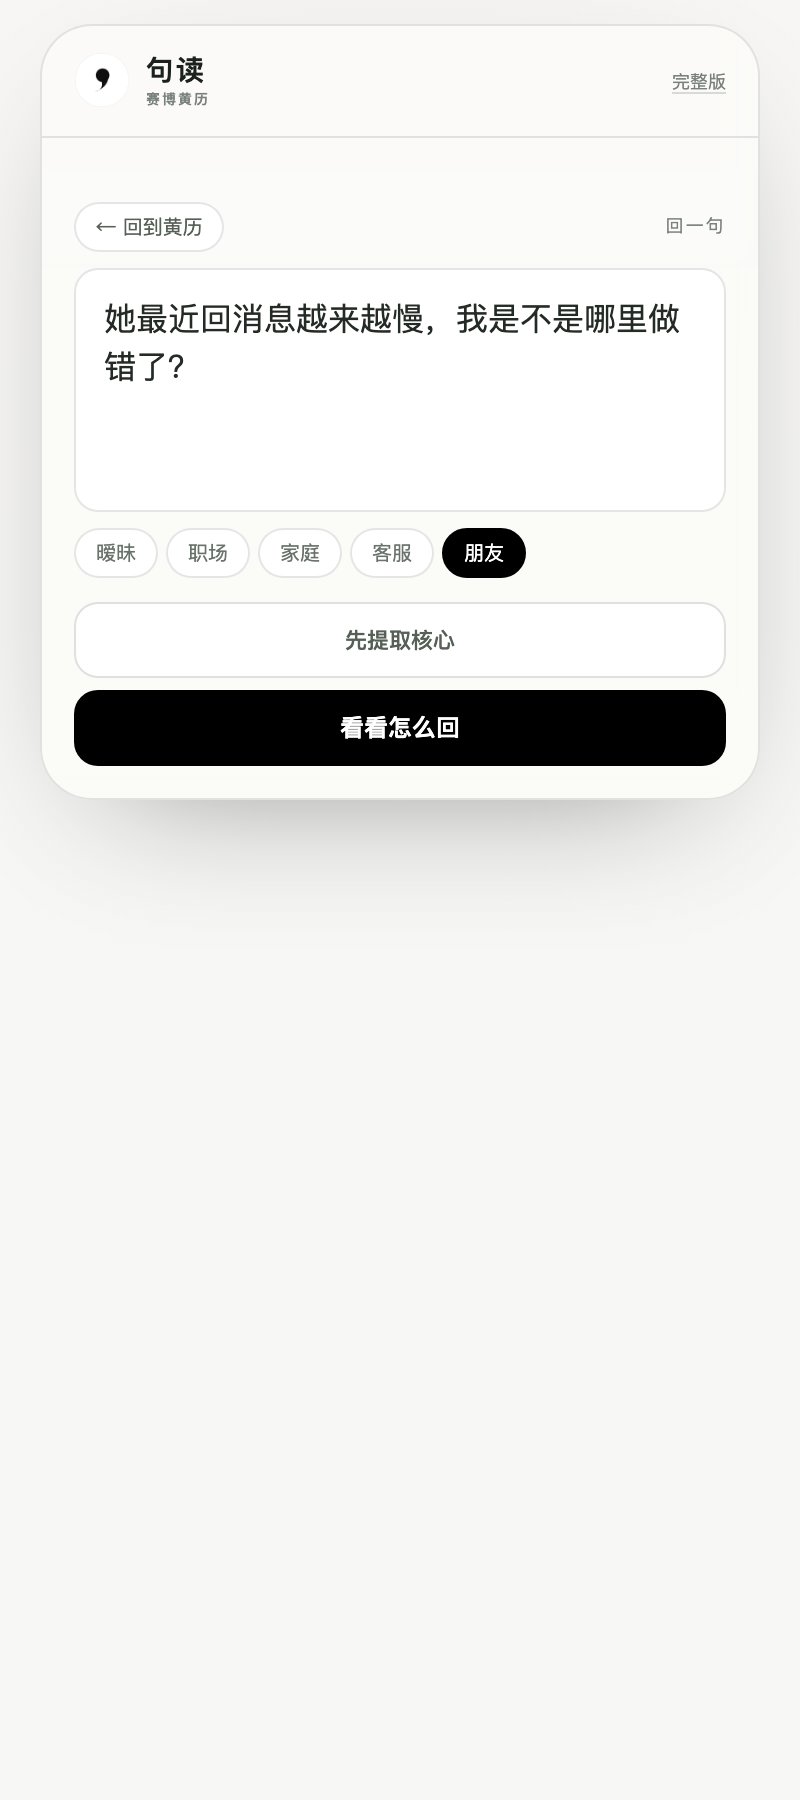
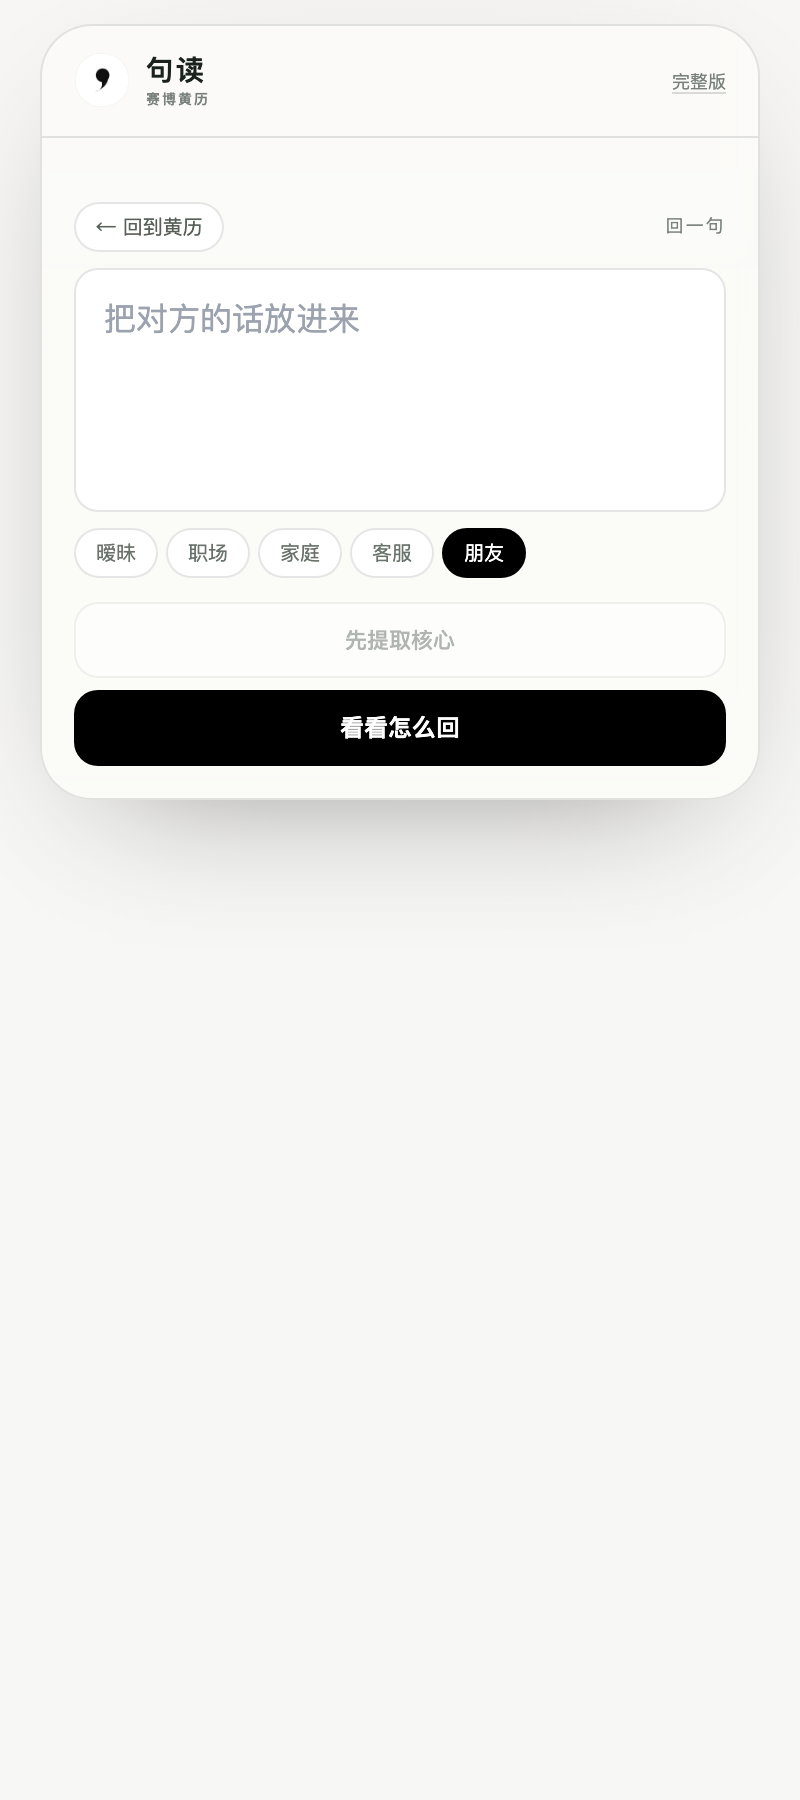
提取核心常驻；先知加只看自己/看看 TA
- 回一句：先提取核心按钮常驻在看看怎么回上方（内容不足时置灰）
- 先知新增视角切换：只看自己 / 看看 TA；看 TA 时自动展开 TA 生辰
- focus=partner 且没填 TA 生辰时返回明确提示
- 提问口径：读 TA 的盘只说 TA 的性格节奏，不替 TA 说心里话
- 禁止在回答里罗列宜忌原文

Changed region(s): [[0.125, 0.1556, 0.5312, 0.2178], [0.5625, 0.1556, 0.8438, 0.1867], [0.4375, 0.3422, 0.5625, 0.3733]]

diff --git a/app/widget/page.tsx b/app/widget/page.tsx
@@ -65,6 +65,7 @@ export default function WidgetPage() {
   const [partnerPlace, setPartnerPlace] = useState("");
   const [partnerGender, setPartnerGender] = useState("");
   const [showPartner, setShowPartner] = useState(false);
+  const [focus, setFocus] = useState<"self" | "partner">("self");
   const [registerOpen, setRegisterOpen] = useState(false);
   const [copied, setCopied] = useState<string | null>(null);
   const { account, register } = useAccount();
@@ -241,6 +242,7 @@ export default function WidgetPage() {
         body: JSON.stringify({
           question,
           scene,
+          focus,
           ...(birthDate
             ? {
                 birth: {
@@ -434,20 +436,18 @@ export default function WidgetPage() {
               ))}
             </div>
 
-            {message.trim().length >= 20 ? (
-              <button
-                type="button"
-                onClick={summarize}
-                disabled={summarizing}
-                className="mt-3 w-full rounded-xl border border-black/12 bg-white px-4 py-2.5 text-[11px] font-medium text-ink-600 disabled:opacity-60"
-              >
-                {summarizing
-                  ? "正在拆这段…"
-                  : summary
-                    ? "重新提取核心"
-                    : "先提取核心"}
-              </button>
-            ) : null}
+            <button
+              type="button"
+              onClick={summarize}
+              disabled={summarizing || message.trim().length < 20}
+              className="mt-3 w-full rounded-xl border border-black/12 bg-white px-4 py-2.5 text-[11px] font-medium text-ink-600 disabled:opacity-45"
+            >
+              {summarizing
+                ? "正在拆这段…"
+                : summary
+                  ? "重新提取核心"
+                  : "先提取核心"}
+            </button>
 
             <button
               type="button"
@@ -571,6 +571,29 @@ export default function WidgetPage() {
                 <p className="text-[9px] tracking-[0.12em] text-ink-400">
                   先知
                 </p>
+              </div>
+
+              <div className="mt-3 grid grid-cols-2 gap-1 rounded-xl bg-cream-100 p-1">
+                {[
+                  { value: "self" as const, label: "只看自己" },
+                  { value: "partner" as const, label: "看看 TA" },
+                ].map((item) => (
+                  <button
+                    key={item.value}
+                    type="button"
+                    onClick={() => {
+                      setFocus(item.value);
+                      if (item.value === "partner") setShowPartner(true);
+                    }}
+                    className={`rounded-lg px-2 py-1.5 text-[10px] font-medium transition-colors ${
+                      focus === item.value
+                        ? "bg-white text-ink-950 shadow-soft"
+                        : "text-ink-400"
+                    }`}
+                  >
+                    {item.label}
+                  </button>
+                ))}
               </div>
 
               <textarea
@@ -717,7 +740,11 @@ export default function WidgetPage() {
                 >
                   <span>
                     TA 的生辰（合盘）
-                    {partnerDate ? ` · ${partnerDate}` : ""}
+                    {partnerDate
+                      ? ` · ${partnerDate}`
+                      : focus === "partner"
+                        ? " · 必填"
+                        : ""}
                   </span>
                   <span>{showPartner ? "收起" : "填写"}</span>
                 </button>

diff --git a/lib/askPrompt.ts b/lib/askPrompt.ts
@@ -23,7 +23,8 @@ export const ASK_SYSTEM_PROMPT = `你是「句读」里的黄历顾问。
 2. 不做确定性预测（不要说「一定会」「必然」），用「更适合」「不太建议」这种分寸。
 3. 不给医疗、投资、法律结论；涉及这些只提醒找专业的人。
 4. 回答落在「今天怎么做」上：能做什么、避开什么、什么时候做。
-5. 宜忌要翻译成人话：不要直接说「今天宜结婚」或者「挑结婚这类事做」，也不要拿「破土/安葬」去吓人。把宜理解成「适合推进、适合沟通、适合出门」，把忌理解成「别急着定、别硬推」。
+5. 回答里不要罗列宜/忌原文（不要写「适合祭祀、解除、破屋、求医」这种），都翻成一句话：今天适合推进 / 今天别硬来 / 今天适合把话说开。原始宜忌只放在 basis 里。
+6. 宜忌要翻译成人话：不要直接说「今天宜结婚」或者「挑结婚这类事做」，也不要拿「破土/安葬」去吓人。把宜理解成「适合推进、适合沟通、适合出门」，把忌理解成「别急着定、别硬推」。
 5. 只输出 JSON：{"answer": "...", "basis": ["..."], "caution": "..."}。
    answer 两到三句，最多 90 个汉字；basis 是 2-3 条你实际用到的排盘依据；caution 一句提醒。`;
 
@@ -34,6 +35,10 @@ export function buildAskPrompt(req: AskRequest): string {
   const partnerChart = req.partnerBirth ? buildChart(req.partnerBirth) : null;
   const synastry =
     chart && partnerChart ? buildSynastry(chart, partnerChart) : null;
+  const focusBlock =
+    req.focus === "partner"
+      ? "\n\n## 这次看的是 TA\n用户想了解 TA 的状态和相处方式。只根据 TA 的命盘说 TA 的性格底子、承受节奏、吃哪一套沟通；不要替 TA 说「TA 心里怎么想你」，也不要预测 TA 的行动。"
+      : "\n\n## 这次看的是用户自己\n重点说用户自己的节奏和该怎么调整，不要把结论安到 TA 身上。";
   const partnerBlock = synastry
     ? `\n\n## 合盘（两个人，只讲相处方式）\n${synastry.relation}\n${synastry.note}\n${synastry.selfLine}\n${synastry.partnerLine}\n回答涉及两人时，只能引用这个关系，不要预测「能不能在一起」。`
     : "";
@@ -51,7 +56,7 @@ export function buildAskPrompt(req: AskRequest): string {
 方位：${almanac.sha}
 今日五行：${almanac.nayin}
 吉位：喜神${almanac.xiDirection}，财神${almanac.caiDirection}
-今日总述：${almanac.summary}${chartBlock}${partnerBlock}
+今日总述：${almanac.summary}${focusBlock}${chartBlock}${partnerBlock}
 
 ## 用户的问题${scene}
 ${req.question.trim()}

diff --git a/components/AskPanel.tsx b/components/AskPanel.tsx
@@ -36,6 +36,7 @@ export function AskPanel({ scene }: { scene: Scene }) {
   const [partnerPlace, setPartnerPlace] = useState("");
   const [partnerGender, setPartnerGender] = useState("");
   const [showPartner, setShowPartner] = useState(false);
+  const [focus, setFocus] = useState<"self" | "partner">("self");
 
   useEffect(() => {
     try {
@@ -124,6 +125,7 @@ export function AskPanel({ scene }: { scene: Scene }) {
         body: JSON.stringify({
           question,
           scene,
+          focus,
           ...(birthDate
             ? {
                 birth: {
@@ -190,6 +192,29 @@ export function AskPanel({ scene }: { scene: Scene }) {
         <span className="pb-0.5 text-[11px] text-ink-400">
           {SCENE_LABEL[scene]} · 按当天排盘回答
         </span>
+      </div>
+
+      <div className="mt-3 grid grid-cols-2 gap-1 rounded-xl bg-cream-100 p-1">
+        {[
+          { value: "self" as const, label: "只看自己" },
+          { value: "partner" as const, label: "看看 TA" },
+        ].map((item) => (
+          <button
+            key={item.value}
+            type="button"
+            onClick={() => {
+              setFocus(item.value);
+              if (item.value === "partner") setShowPartner(true);
+            }}
+            className={`rounded-lg px-3 py-2 text-[12px] font-medium transition-colors ${
+              focus === item.value
+                ? "bg-white text-ink-950 shadow-soft"
+                : "text-ink-400 hover:text-ink-700"
+            }`}
+          >
+            {item.label}
+          </button>
+        ))}
       </div>
 
       <textarea
@@ -285,7 +310,11 @@ export function AskPanel({ scene }: { scene: Scene }) {
         >
           <span>
             TA 的生辰
-            {partnerDate ? ` · ${partnerDate}` : "（可选，填了做合盘）"}
+            {partnerDate
+              ? ` · ${partnerDate}`
+              : focus === "partner"
+                ? "（看 TA 需要填）"
+                : "（可选，填了做合盘）"}
           </span>
           <span className="text-[10px] text-ink-400">
             {showPartner ? "收起" : "填写"}

diff --git a/components/MessageInput.tsx b/components/MessageInput.tsx
@@ -256,20 +256,18 @@ export function MessageInput({
         </p>
       ) : null}
 
-      {message.trim().length >= 20 ? (
-        <button
-          type="button"
-          onClick={onSummarize}
-          disabled={summarizing}
-          className="mt-4 flex w-full items-center justify-center gap-1.5 rounded-xl border border-ink-950/12 bg-white px-4 py-3 text-[13px] font-medium text-ink-600 transition-colors hover:border-ink-950/30 hover:text-ink-950 disabled:cursor-wait disabled:opacity-60"
-        >
-          {summarizing
-            ? "正在拆这段…"
-            : summaryReady
-              ? "重新提取核心"
-              : "先提取核心意思"}
-        </button>
-      ) : null}
+      <button
+        type="button"
+        onClick={onSummarize}
+        disabled={summarizing || message.trim().length < 20}
+        className="mt-4 flex w-full items-center justify-center gap-1.5 rounded-xl border border-ink-950/12 bg-white px-4 py-3 text-[13px] font-medium text-ink-600 transition-colors hover:border-ink-950/30 hover:text-ink-950 disabled:cursor-not-allowed disabled:opacity-45"
+      >
+        {summarizing
+          ? "正在拆这段…"
+          : summaryReady
+            ? "重新提取核心"
+            : "先提取核心意思"}
+      </button>
 
       <button
         type="submit"

diff --git a/app/api/ask/route.ts b/app/api/ask/route.ts
@@ -131,6 +131,8 @@ export async function POST(request: Request) {
   const question = readString(body.question);
   const scene = readString(body.scene);
   const date = readString(body.date);
+  const focusRaw = readString(body.focus);
+  const focus: "self" | "partner" = focusRaw === "partner" ? "partner" : "self";
   const birthRaw = isRecord(body.birth) ? body.birth : null;
   const birthDate = birthRaw ? readString(birthRaw.date) : "";
   const birthHour = birthRaw ? Number(birthRaw.hour) : Number.NaN;
@@ -175,8 +177,16 @@ export async function POST(request: Request) {
     );
   }
 
+  if (focus === "partner" && !partnerDate) {
+    return NextResponse.json(
+      { error: "看 TA 要先填 TA 的生辰（日期即可，越全越准）。" },
+      { status: 400 },
+    );
+  }
+
   const payload: AskRequest = {
     question,
+    focus,
     ...(scene && isScene(scene) ? { scene: scene as Scene } : {}),
     ...(date ? { date } : {}),
     ...(birthDate

diff --git a/lib/types.ts b/lib/types.ts
@@ -148,6 +148,8 @@ export interface AskRequest {
   birth?: BirthInfo;
   /** 对方生辰，填了才做合盘 */
   partnerBirth?: BirthInfo;
+  /** self = 只看自己；partner = 看 TA / 合盘 */
+  focus?: "self" | "partner";
 }
 
 export interface AskChart {
